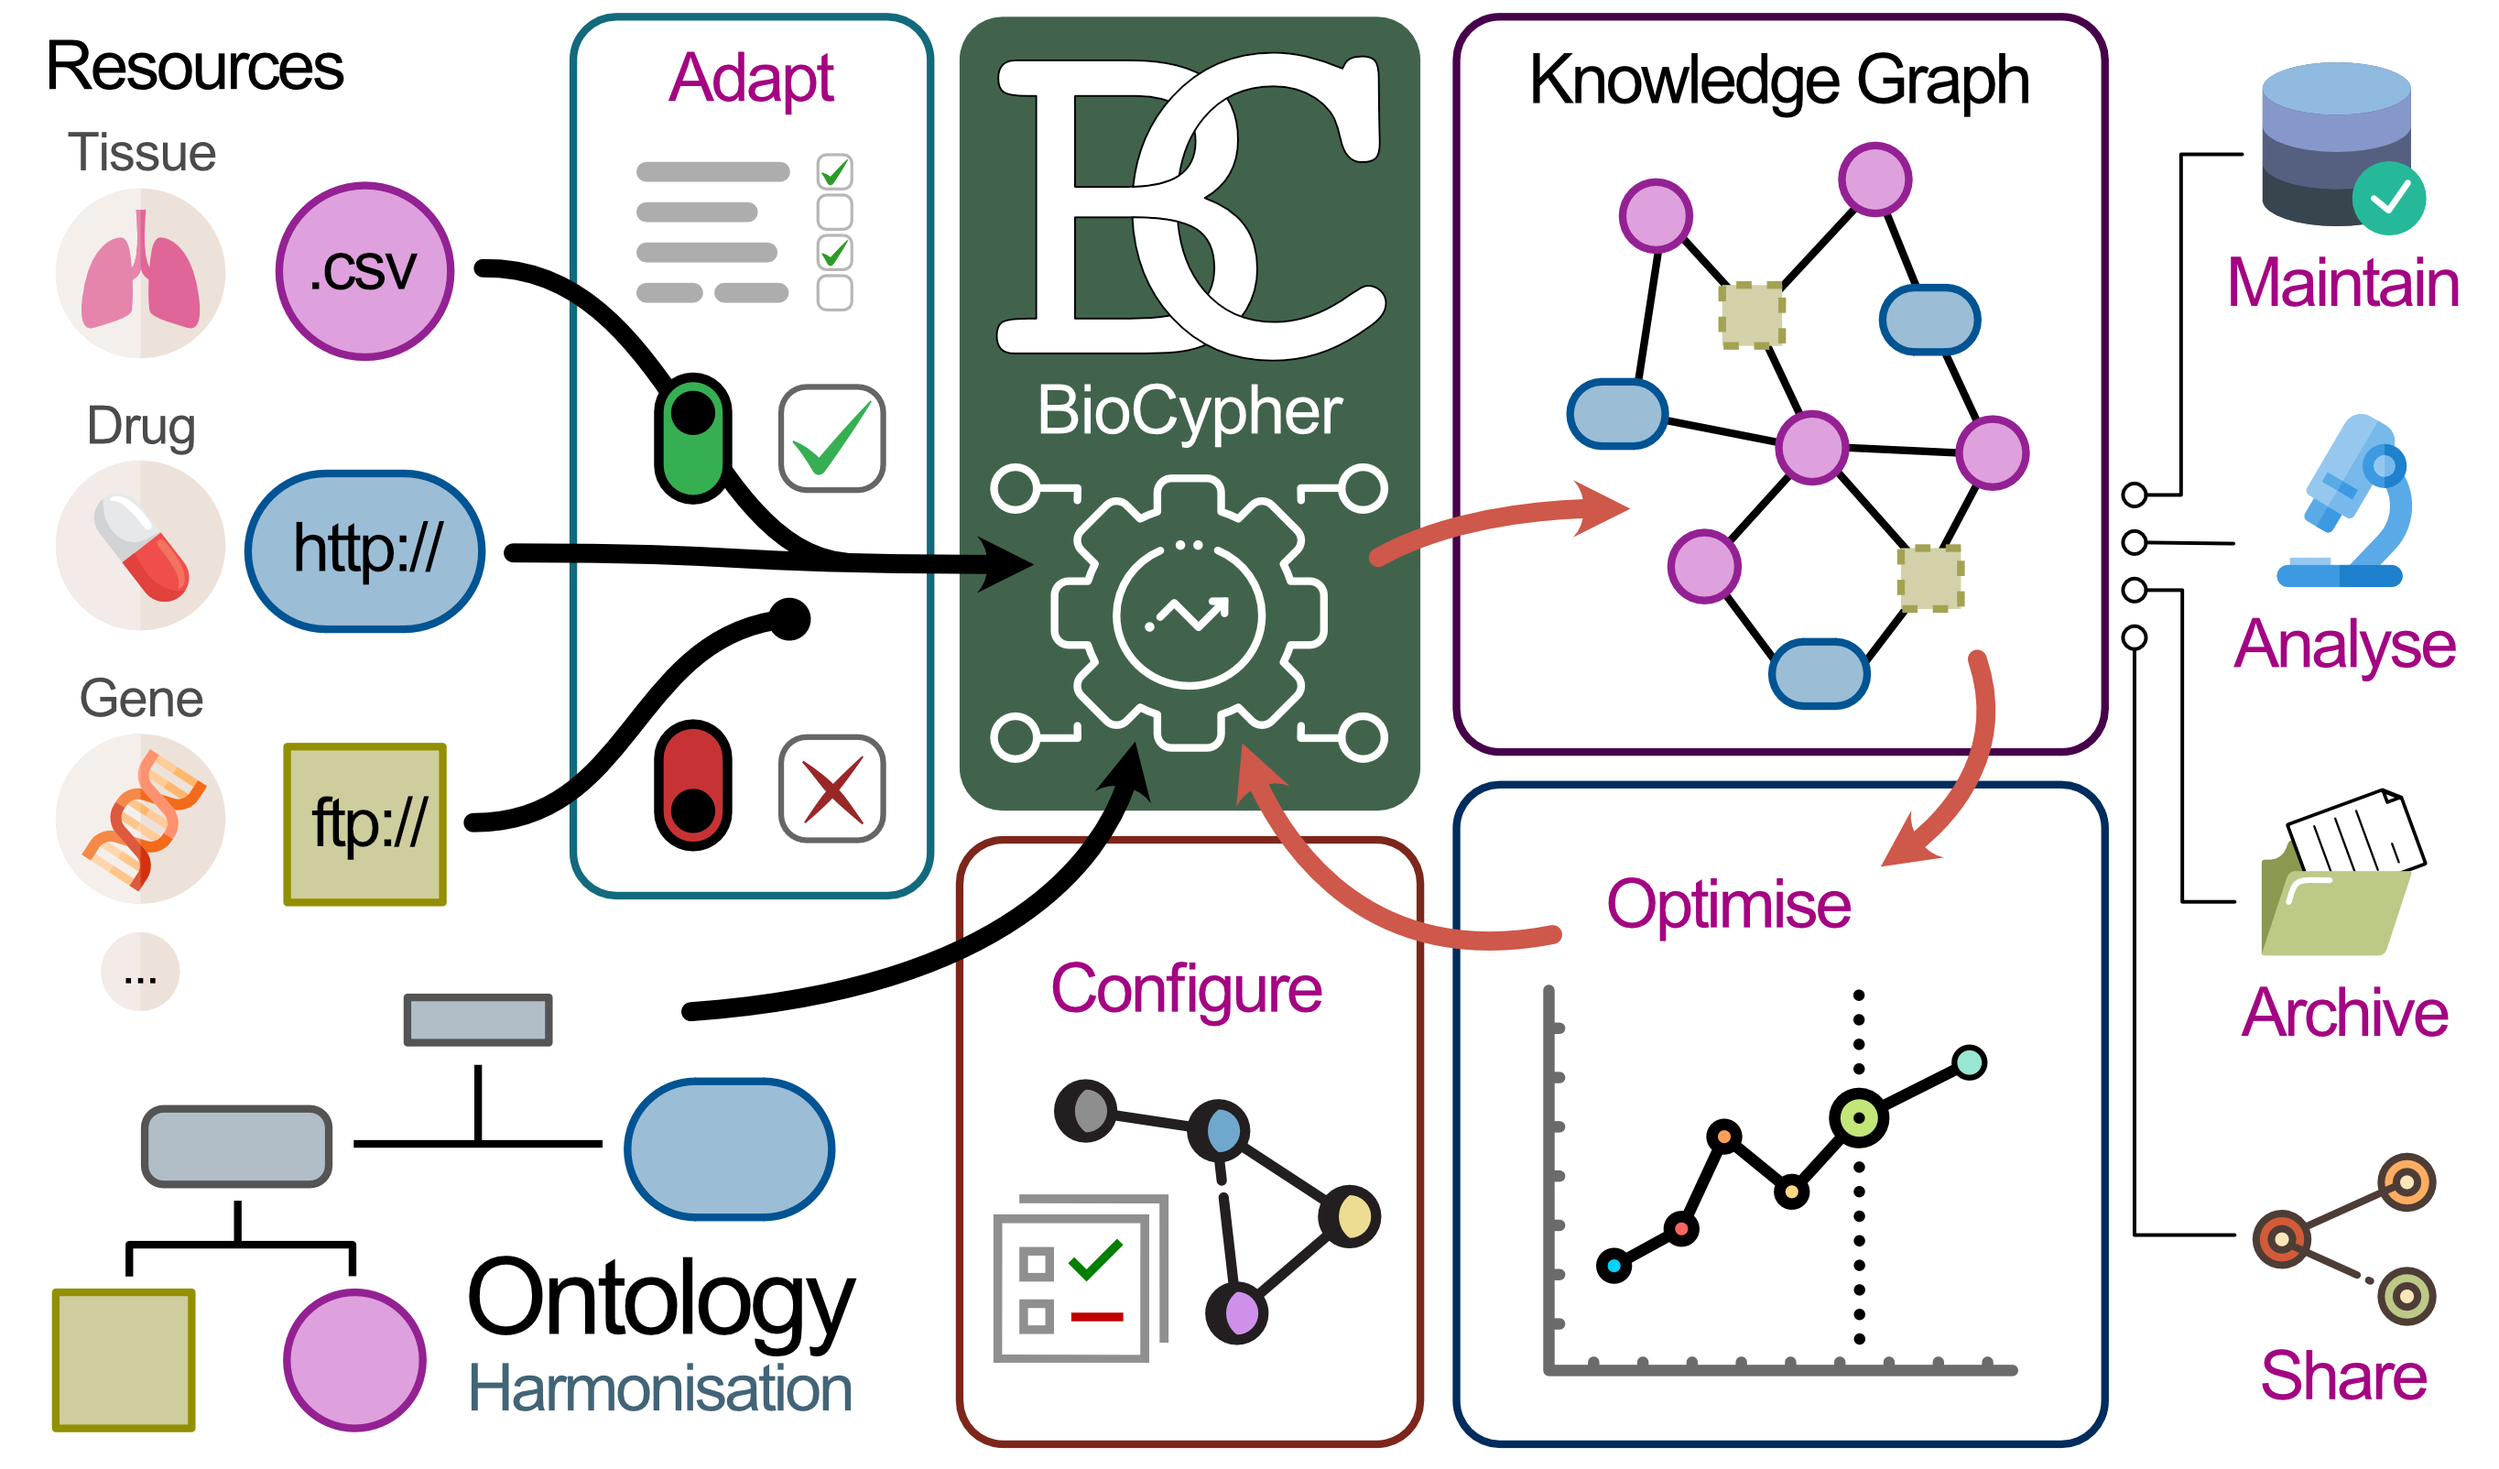
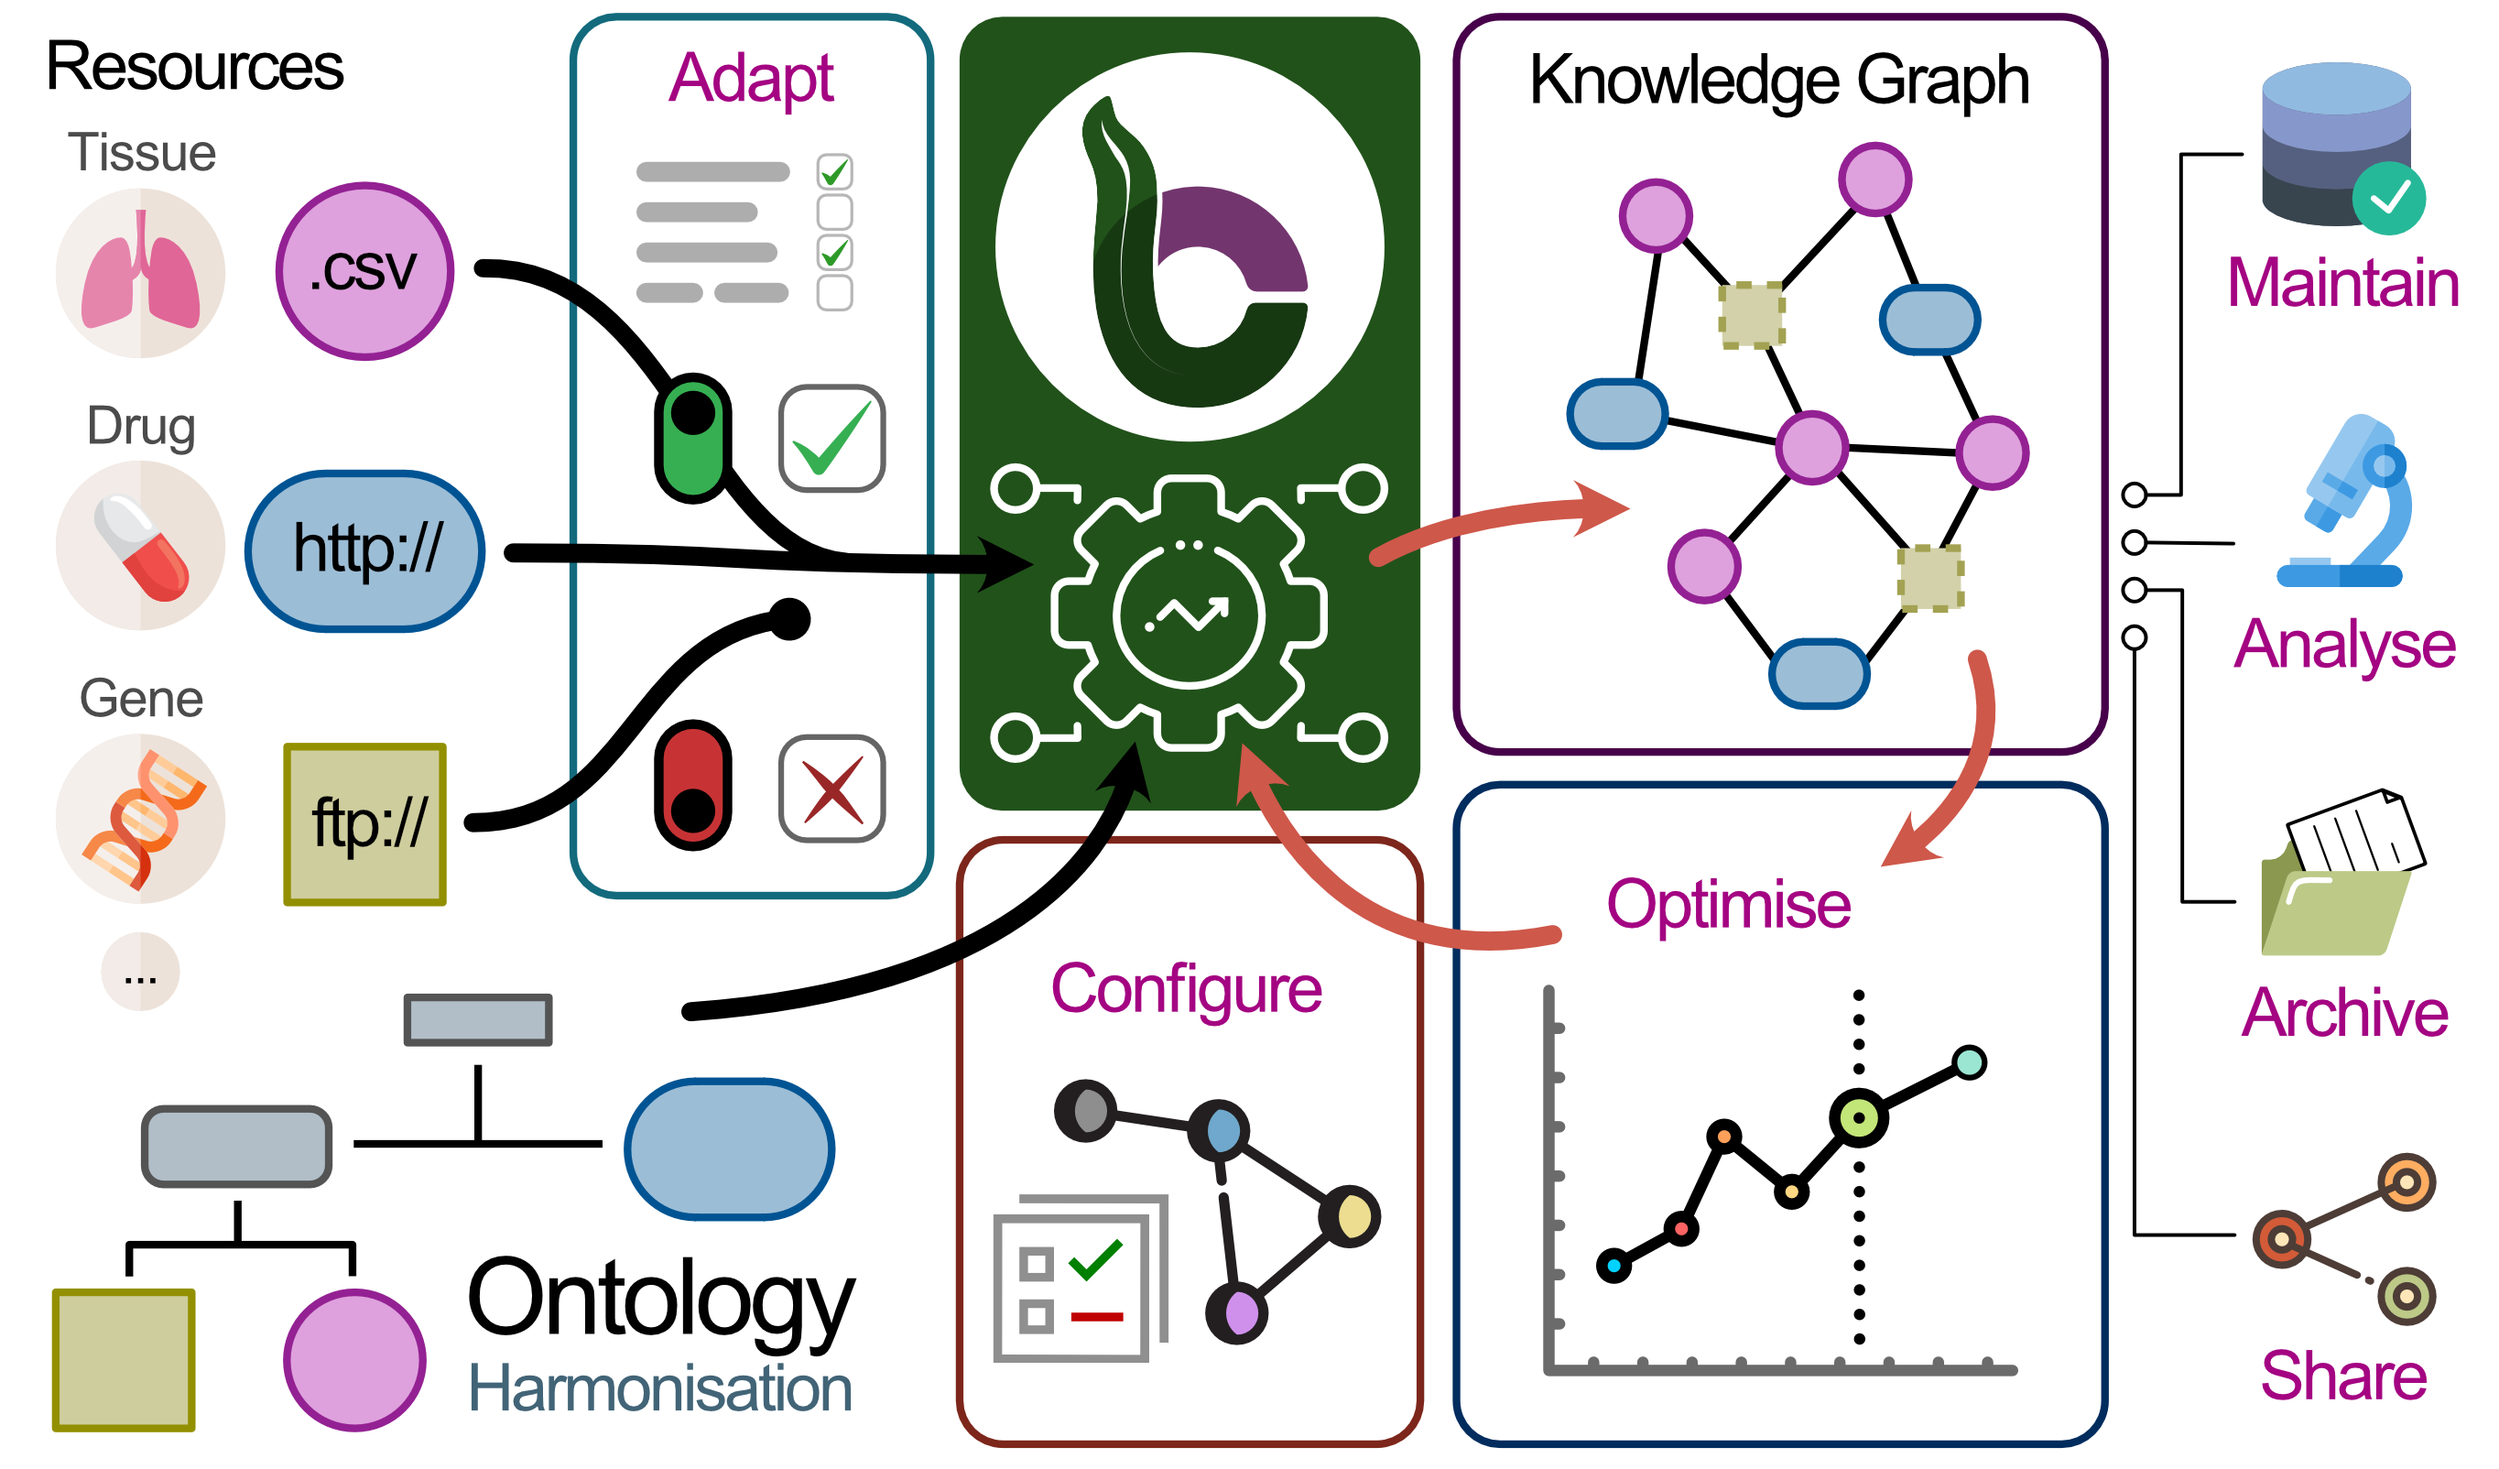
update figures

Changed region(s): [[0.3738, 0.0, 0.5918, 0.5611]]

diff --git a/docs/index.rst b/docs/index.rst
@@ -1,4 +1,4 @@
-.. image:: biocypher-open-graph.png
+.. image:: banner.png
 
 ############
 Introduction
